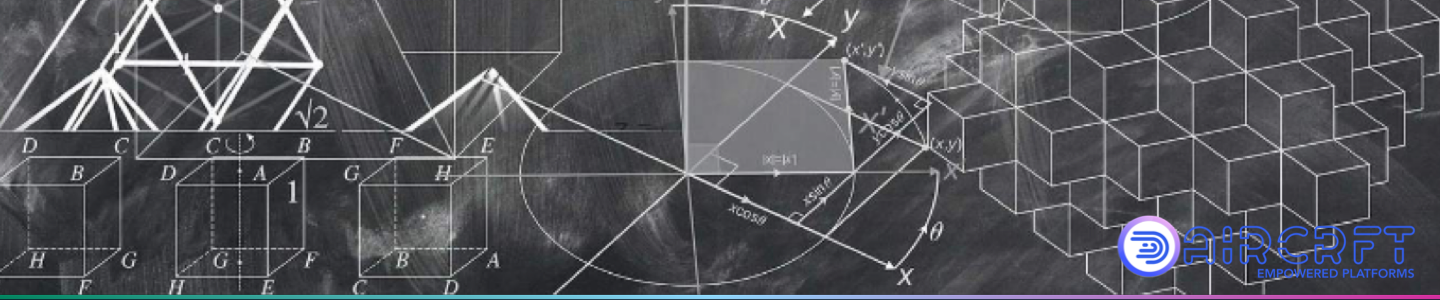
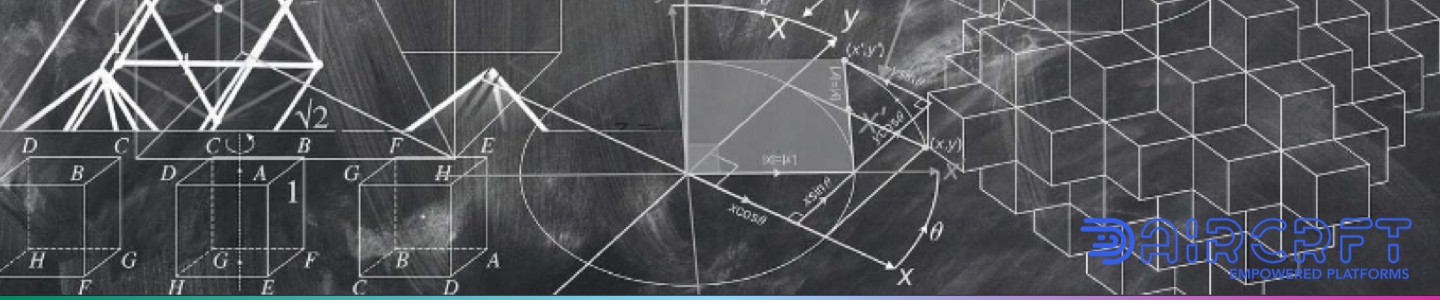
Commit
Added cover images

Changed region(s): [[0.0, 0.96, 1.0, 1.0], [0.75, 0.72, 1.0, 0.93]]

diff --git a/dist/profile-projects.html b/dist/profile-projects.html
@@ -1395,7 +1395,7 @@
 
             <!-- Brand -->
             <a class="navbar-brand" href="index.html">
-              <img src="./assets/img/aircrft-flightdeck-logo-1.png" class="navbar-brand-img 
+              <img src="./assets/img/aircrft-logo-clean.png" class="navbar-brand-img 
               mx-auto" alt="...">
             </a>
 
@@ -1441,7 +1441,7 @@
 
               <!-- Heading -->
               <h6 class="navbar-heading"><i class="fe fe-feather"></i> 
-                CONTENT
+                FLIGHT DECK
               </h6>
 
               <!-- Navigation -->
@@ -3885,7 +3885,7 @@
       <div class="header">
 
         <!-- Image -->
-        <img src="assets/img/covers/profile-cover-1.jpg" class="header-img-top" alt="...">
+        <img src="assets/img/covers/profile-cover-18.png" class="header-img-top" alt="...">
         
         <div class="container-fluid">
 

diff --git a/dist/profile-subscribers.html b/dist/profile-subscribers.html
@@ -1395,7 +1395,7 @@
 
             <!-- Brand -->
             <a class="navbar-brand" href="index.html">
-              <img src="./assets/img/aircrft-flightdeck-logo-1.png" class="navbar-brand-img 
+              <img src="./assets/img/aircrft-logo-clean.png" class="navbar-brand-img 
               mx-auto" alt="...">
             </a>
 
@@ -1441,7 +1441,7 @@
 
               <!-- Heading -->
               <h6 class="navbar-heading"><i class="fe fe-feather"></i> 
-                CONTENT
+                FLIGHT DECK
               </h6>
 
               <!-- Navigation -->
@@ -3885,7 +3885,7 @@
       <div class="header">
 
         <!-- Image -->
-        <img src="assets/img/covers/profile-cover-1.jpg" class="header-img-top" alt="...">
+        <img src="assets/img/covers/profile-cover-19.png" class="header-img-top" alt="...">
         
         <div class="container-fluid">
 

diff --git a/dist/project-files.html b/dist/project-files.html
@@ -24,7 +24,7 @@
     <style>body { display: none; }</style>
     
 
-    <title>Dashkit</title>
+    <title>Aircrft</title>
   </head>
   <body>
 
@@ -1395,7 +1395,7 @@
 
             <!-- Brand -->
             <a class="navbar-brand" href="index.html">
-              <img src="./assets/img/aircrft-flightdeck-logo-1.png" class="navbar-brand-img 
+              <img src="./assets/img/aircrft-logo-clean.png" class="navbar-brand-img 
               mx-auto" alt="...">
             </a>
 
@@ -1441,7 +1441,7 @@
 
               <!-- Heading -->
               <h6 class="navbar-heading"><i class="fe fe-feather"></i> 
-                CONTENT
+                FLIGHT DECK
               </h6>
 
               <!-- Navigation -->

diff --git a/dist/aircrft-flightpath.html b/dist/aircrft-flightpath.html
@@ -1395,7 +1395,7 @@
 
             <!-- Brand -->
             <a class="navbar-brand" href="index.html">
-              <img src="./assets/img/aircrft-flightdeck-logo-1.png" class="navbar-brand-img 
+              <img src="./assets/img/aircrft-logo-clean.png" class="navbar-brand-img 
               mx-auto" alt="...">
             </a>
 
@@ -1441,7 +1441,7 @@
 
               <!-- Heading -->
               <h6 class="navbar-heading"><i class="fe fe-feather"></i> 
-                CONTENT
+                FLIGHT DECK
               </h6>
 
               <!-- Navigation -->

diff --git a/dist/changelog.html b/dist/changelog.html
@@ -1395,7 +1395,7 @@
 
             <!-- Brand -->
             <a class="navbar-brand" href="index.html">
-              <img src="./assets/img/aircrft-flightdeck-logo-1.png" class="navbar-brand-img 
+              <img src="./assets/img/aircrft-logo-clean.png" class="navbar-brand-img 
               mx-auto" alt="...">
             </a>
 
@@ -1441,7 +1441,7 @@
 
               <!-- Heading -->
               <h6 class="navbar-heading"><i class="fe fe-feather"></i> 
-                CONTENT
+                FLIGHT DECK
               </h6>
 
               <!-- Navigation -->

diff --git a/dist/components.html b/dist/components.html
@@ -1395,7 +1395,7 @@
 
             <!-- Brand -->
             <a class="navbar-brand" href="index.html">
-              <img src="./assets/img/aircrft-flightdeck-logo-1.png" class="navbar-brand-img 
+              <img src="./assets/img/aircrft-logo-clean.png" class="navbar-brand-img 
               mx-auto" alt="...">
             </a>
 
@@ -1441,7 +1441,7 @@
 
               <!-- Heading -->
               <h6 class="navbar-heading"><i class="fe fe-feather"></i> 
-                CONTENT
+                FLIGHT DECK
               </h6>
 
               <!-- Navigation -->

diff --git a/dist/dashboard-alt.html b/dist/dashboard-alt.html
@@ -1395,7 +1395,7 @@
 
             <!-- Brand -->
             <a class="navbar-brand" href="index.html">
-              <img src="./assets/img/aircrft-flightdeck-logo-1.png" class="navbar-brand-img 
+              <img src="./assets/img/aircrft-logo-clean.png" class="navbar-brand-img 
               mx-auto" alt="...">
             </a>
 
@@ -1441,7 +1441,7 @@
 
               <!-- Heading -->
               <h6 class="navbar-heading"><i class="fe fe-feather"></i> 
-                CONTENT
+                FLIGHT DECK
               </h6>
 
               <!-- Navigation -->

diff --git a/dist/dummy.html b/dist/dummy.html
@@ -1395,7 +1395,7 @@
 
             <!-- Brand -->
             <a class="navbar-brand" href="index.html">
-              <img src="./assets/img/aircrft-flightdeck-logo-1.png" class="navbar-brand-img 
+              <img src="./assets/img/aircrft-logo-clean.png" class="navbar-brand-img 
               mx-auto" alt="...">
             </a>
 
@@ -1441,7 +1441,7 @@
 
               <!-- Heading -->
               <h6 class="navbar-heading"><i class="fe fe-feather"></i> 
-                CONTENT
+                FLIGHT DECK
               </h6>
 
               <!-- Navigation -->

diff --git a/dist/feed.html b/dist/feed.html
@@ -1395,7 +1395,7 @@
 
             <!-- Brand -->
             <a class="navbar-brand" href="index.html">
-              <img src="./assets/img/aircrft-flightdeck-logo-1.png" class="navbar-brand-img 
+              <img src="./assets/img/aircrft-logo-clean.png" class="navbar-brand-img 
               mx-auto" alt="...">
             </a>
 
@@ -1441,7 +1441,7 @@
 
               <!-- Heading -->
               <h6 class="navbar-heading"><i class="fe fe-feather"></i> 
-                CONTENT
+                FLIGHT DECK
               </h6>
 
               <!-- Navigation -->

diff --git a/dist/getting-started.html b/dist/getting-started.html
@@ -1395,7 +1395,7 @@
 
             <!-- Brand -->
             <a class="navbar-brand" href="index.html">
-              <img src="./assets/img/aircrft-flightdeck-logo-1.png" class="navbar-brand-img 
+              <img src="./assets/img/aircrft-logo-clean.png" class="navbar-brand-img 
               mx-auto" alt="...">
             </a>
 
@@ -1441,7 +1441,7 @@
 
               <!-- Heading -->
               <h6 class="navbar-heading"><i class="fe fe-feather"></i> 
-                CONTENT
+                FLIGHT DECK
               </h6>
 
               <!-- Navigation -->

diff --git a/dist/index.html b/dist/index.html
@@ -1395,7 +1395,7 @@
 
             <!-- Brand -->
             <a class="navbar-brand" href="index.html">
-              <img src="./assets/img/aircrft-flightdeck-logo-1.png" class="navbar-brand-img 
+              <img src="./assets/img/aircrft-logo-clean.png" class="navbar-brand-img 
               mx-auto" alt="...">
             </a>
 
@@ -1441,7 +1441,7 @@
 
               <!-- Heading -->
               <h6 class="navbar-heading"><i class="fe fe-feather"></i> 
-                CONTENT
+                FLIGHT DECK
               </h6>
 
               <!-- Navigation -->

diff --git a/dist/invoice.html b/dist/invoice.html
@@ -1395,7 +1395,7 @@
 
             <!-- Brand -->
             <a class="navbar-brand" href="index.html">
-              <img src="./assets/img/aircrft-flightdeck-logo-1.png" class="navbar-brand-img 
+              <img src="./assets/img/aircrft-logo-clean.png" class="navbar-brand-img 
               mx-auto" alt="...">
             </a>
 
@@ -1441,7 +1441,7 @@
 
               <!-- Heading -->
               <h6 class="navbar-heading"><i class="fe fe-feather"></i> 
-                CONTENT
+                FLIGHT DECK
               </h6>
 
               <!-- Navigation -->
